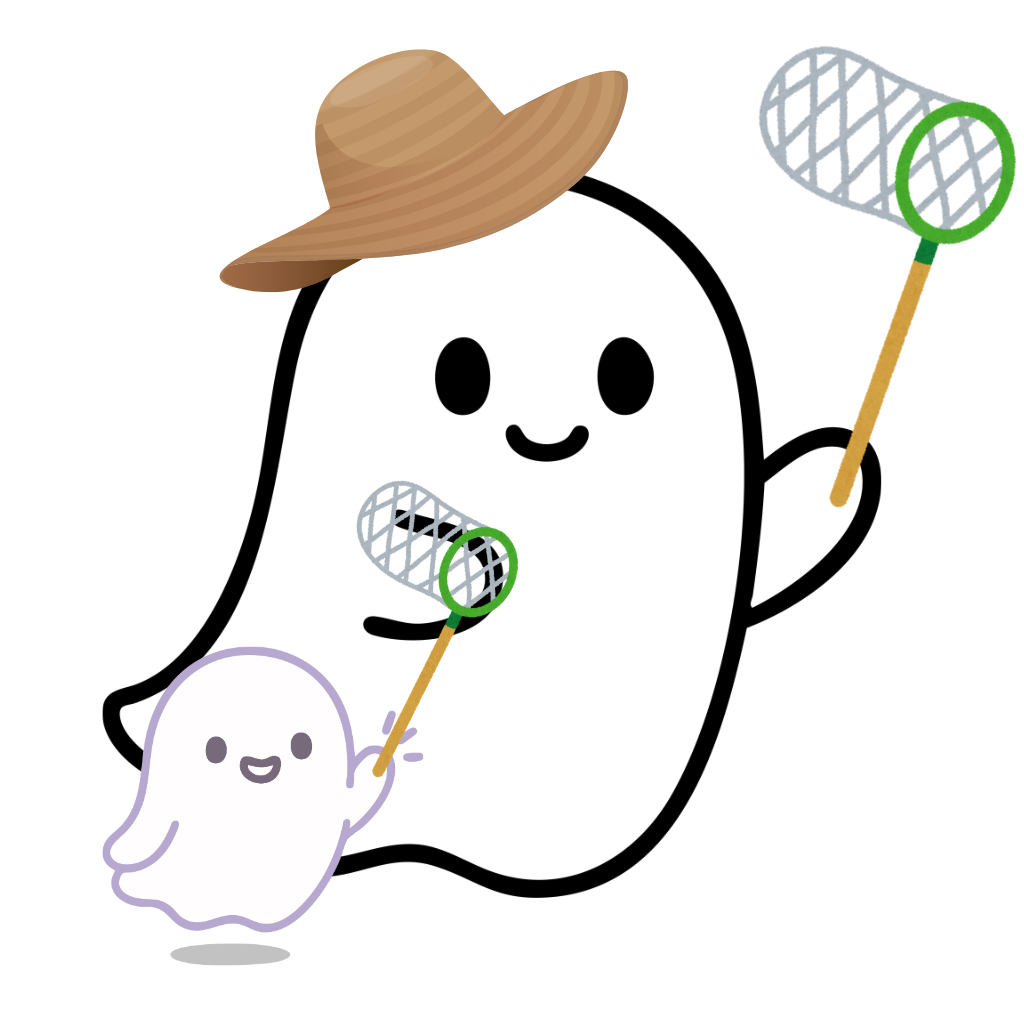
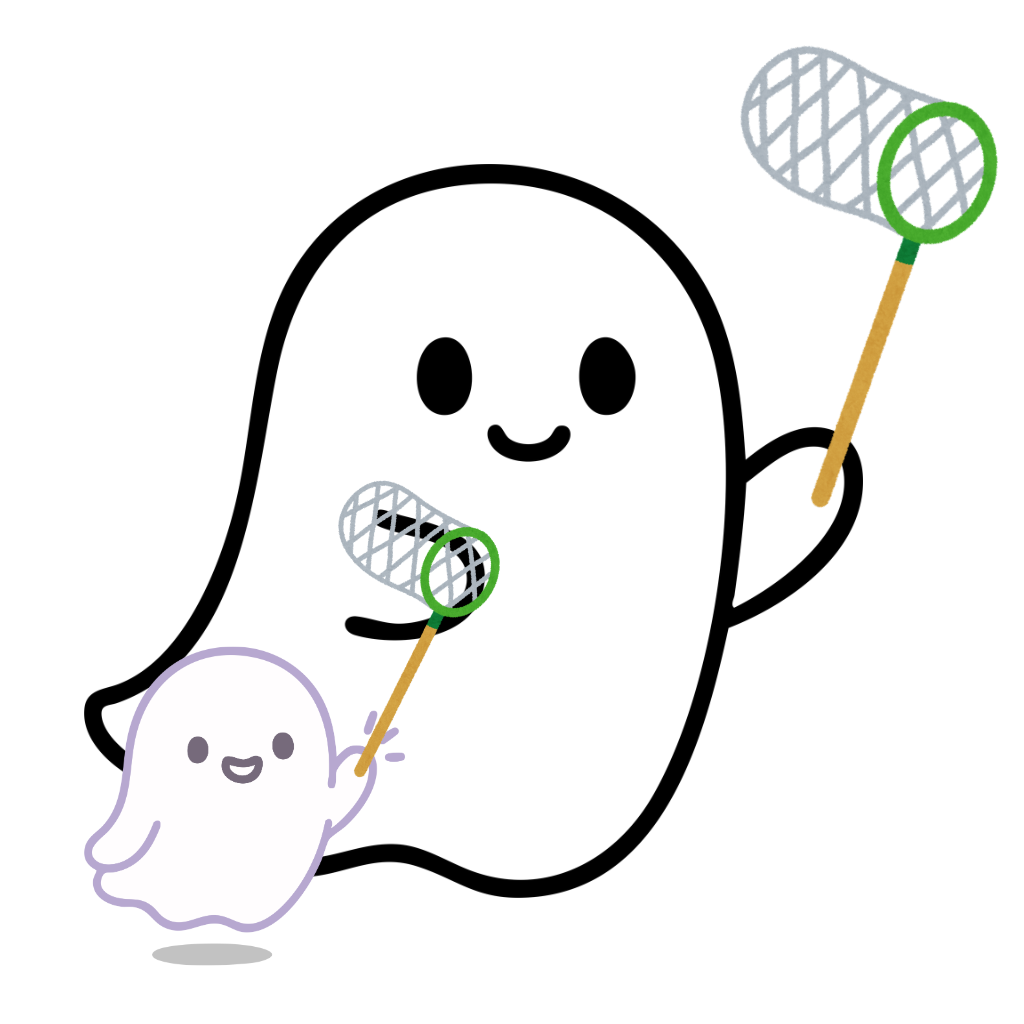
鎖定放大縮小功能，圖示帽子拿掉

Changed region(s): [[0.0625, 0.0312, 1.0, 0.9375], [0.4062, 0.3125, 0.6562, 0.4688]]

diff --git a/index.html b/index.html
@@ -4,7 +4,7 @@
     <meta charset="UTF-8" />
     <link rel="icon" type="image/svg+xml" href="/vite.svg" />
     <link rel="apple-touch-icon" href="/apple-touch-icon.png" />
-    <meta name="viewport" content="width=device-width, initial-scale=1.0" />
+    <meta name="viewport" content="width=device-width, initial-scale=1.0, maximum-scale=1.0, user-scalable=no">
     <title>test1</title>
   </head>
   <body>
